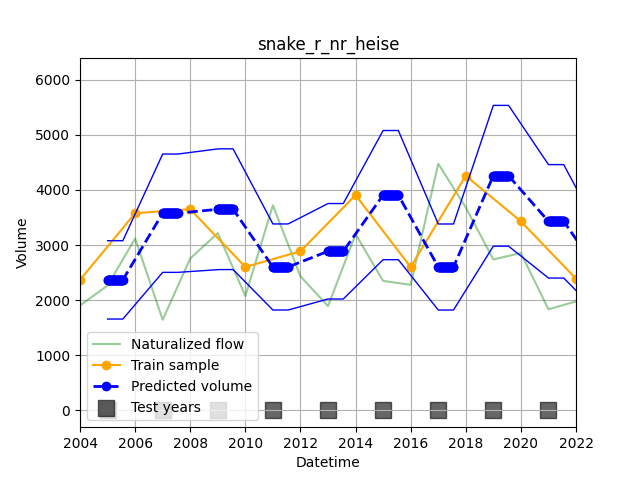
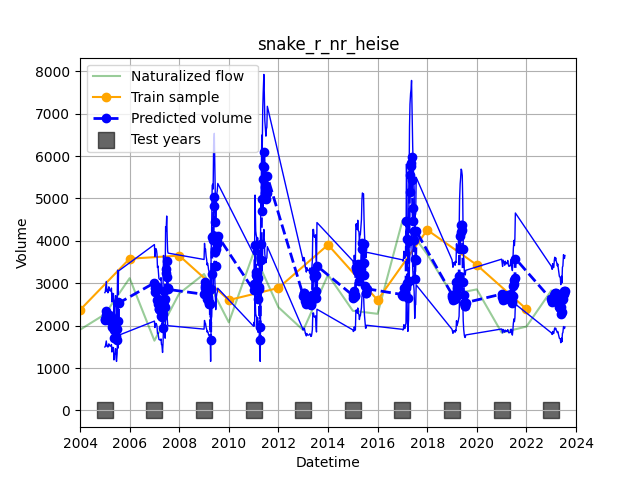
finish streamflow model

diff --git a/wasu/development/models/train_model.py b/wasu/development/models/train_model.py
@@ -4,8 +4,10 @@ from typing import Union
 
 import pandas as pd
 from loguru import logger
+from sklearn.linear_model import LinearRegression
 
 from wasu.development.main import collect_usgs_streamflow_time_series_for_site
+from wasu.development.models.date_utils import generate_datetime_into_julian, get_julian_date_from_datetime
 from wasu.development.output import Output
 
 
@@ -43,7 +45,7 @@ class TrainModel:
 
         submit = df[['index']].merge(predicted, on='index')
         submit = submit.drop(columns=['index'])
-        submit['issue_date'] = pd.to_datetime(predicted['issue_date']).dt.strftime('%Y-%m-%d')
+        submit['issue_date'] = pd.to_datetime(submit['issue_date']).dt.strftime('%Y-%m-%d')
         submit.to_csv(path, index=False)
 
 
@@ -110,15 +112,15 @@ class AdvancedRepeatingTrainModel(TrainModel):
             site_df = self.train_df[self.train_df['site_id'] == site]
             site_df = site_df.sort_values(by='year')
 
-            submit = self._generate_forecasts_for_site(historical_values=site_df,
-                                                       submission_site=submission_site)
+            submit = self.generate_forecasts_for_site(historical_values=site_df,
+                                                      submission_site=submission_site)
 
             df_to_send.append(submit)
 
         df_to_send = pd.concat(df_to_send)
         return df_to_send
 
-    def _generate_forecasts_for_site(self, historical_values: pd.DataFrame, submission_site: pd.DataFrame):
+    def generate_forecasts_for_site(self, historical_values: pd.DataFrame, submission_site: pd.DataFrame):
         """ Generate forecasts for desired site """
         submit = []
         for row_id, row in submission_site.iterrows():
@@ -144,9 +146,13 @@ class StreamFlowRegression(TrainModel):
 
     def __init__(self, train_df: pd.DataFrame):
         super().__init__(train_df)
+        self.backup_model = AdvancedRepeatingTrainModel(train_df)
 
         self.lower_ratio = 0.3
         self.above_ratio = 0.3
+        # One month
+        self.aggregation_days = 45
+        self.features_columns = ['mean_value', 'sum_value', 'min_value', 'max_value']
 
     def predict(self, submission_format: pd.DataFrame, **kwargs) -> pd.DataFrame:
         self.train_df = self.train_df.dropna()
@@ -158,9 +164,15 @@ class StreamFlowRegression(TrainModel):
         # For every site
         for site in list(submission_format['site_id'].unique()):
             streamflow_df = collect_usgs_streamflow_time_series_for_site(path_to_streamflow, site)
-            if streamflow_df is None:
-                # TODO Generate alternative forecast in that case
-                continue
+            submission_site = submission_format[submission_format['site_id'] == site]
+            site_df = self.train_df[self.train_df['site_id'] == site]
+            site_df = site_df.sort_values(by='year')
+
+            if streamflow_df is None or len(streamflow_df) < 1:
+                logger.warning(f'Can not obtain streamflow data for site {site}. Apply Advanced repeating')
+                submit = self.backup_model.generate_forecasts_for_site(historical_values=site_df,
+                                                                       submission_site=submission_site)
+                df_to_send.append(submit)
 
             metadata_site = metadata[metadata['site_id'] == site]
             season_start_month = metadata_site['season_start_month'].values[0]
@@ -169,54 +181,120 @@ class StreamFlowRegression(TrainModel):
             logger.info(f'Generating forecast for site {site}. Start season month: {season_start_month}. '
                         f'End season month: {season_end_month}')
 
-            submission_site = submission_format[submission_format['site_id'] == site]
-            site_df = self.train_df[self.train_df['site_id'] == site]
-            site_df = site_df.sort_values(by='year')
-
-            submit = self._generate_forecasts_for_site(historical_values=site_df,
-                                                       streamflow_df=streamflow_df,
-                                                       submission_site=submission_site)
-
-            df_to_send.append(submit)
+            try:
+                submit = self._generate_forecasts_for_site(historical_values=site_df,
+                                                           streamflow_df=streamflow_df,
+                                                           submission_site=submission_site)
+                df_to_send.append(submit)
+            except Exception as ex:
+                logger.warning(f'Can not generate forecast for site {site} due to {ex}. Apply Advanced repeating')
+                submit = self.backup_model.generate_forecasts_for_site(historical_values=site_df,
+                                                                       submission_site=submission_site)
+                df_to_send.append(submit)
 
         df_to_send = pd.concat(df_to_send)
         return df_to_send
 
     def _generate_forecasts_for_site(self, historical_values: pd.DataFrame,
                                      streamflow_df: pd.DataFrame, submission_site: pd.DataFrame):
-        streamflow_df['julian_datetime'] = pd.DatetimeIndex(streamflow_df['datetime']).to_julian_date()
-        streamflow_df['julian_datetime'] = streamflow_df['julian_datetime'] .round(3)
+        streamflow_df = generate_datetime_into_julian(dataframe=streamflow_df, datetime_column='datetime',
+                                                      julian_column='julian_datetime', round_julian=3)
 
         submit = []
         for row_id, row in submission_site.iterrows():
-            # For each datetime label
-            issue_date = row['issue_date']
+            ############################################
+            # GENERATE FORECAST FOR CURRENT ISSUE DATE #
+            ############################################
 
-            # Get also issue date in julian
-            issue_date_df = pd.DataFrame({'issue_date': [issue_date]})
-            issue_date_df['julian_datetime'] = pd.DatetimeIndex(issue_date_df['issue_date']).to_julian_date()
-            issue_date_df['julian_datetime'] = issue_date_df['julian_datetime'].round(3)
-            issue_date_julian = issue_date_df['julian_datetime'].values[0]
+            # Get information about datetime
+            issue_date = row['issue_date']
+            issue_date_julian = get_julian_date_from_datetime(current_date=issue_date, round_julian=3)
+            issue_date_agg_start_julian = get_julian_date_from_datetime(current_date=issue_date,
+                                                                        offset_days=self.aggregation_days)
 
             # Volume from the previous year
             known_historical_values = historical_values[historical_values['year'] < issue_date]
             known_streamflow_values = streamflow_df[streamflow_df['julian_datetime'] < issue_date_julian]
 
-            # Aggregate the data
+            # Add information about year in the dataframe
             known_streamflow_values['year'] = known_streamflow_values['datetime'].dt.year
-            dataframe_for_model_fitting = []
-            for historical_year in list(known_historical_values['year'].dt.year):
-                if historical_year not in list(known_streamflow_values['year'].unique()):
-                    continue
+            known_historical_values['year_number'] = known_historical_values['year'].dt.year
 
-                same_datetime_in_past = []
-                print(issue_date.dayofyear, issue_date.day, issue_date)
+            # Fit model
+            model, min_target, max_target = self._fit_model_based_on_historical_data(known_historical_values=known_historical_values,
+                                                                                     known_streamflow_values=known_streamflow_values,
+                                                                                     issue_date=issue_date)
 
-            row['volume_10'] = 0
-            row['volume_50'] = 0
-            row['volume_90'] = 0
+            # Generate forecast
+            agg_streamflow = known_streamflow_values[known_streamflow_values['julian_datetime'] >= issue_date_agg_start_julian]
+            agg_streamflow = agg_streamflow[agg_streamflow['julian_datetime'] < issue_date_julian]
+            dataset = self.__aggregate_features(agg_streamflow)
+
+            predicted = model.predict(dataset[self.features_columns])[0]
+
+            # Clip to borders
+            if predicted > max_target:
+                predicted = max_target
+            if predicted < min_target:
+                predicted = min_target
+
+            row['volume_10'] = predicted - (predicted * self.lower_ratio)
+            row['volume_50'] = predicted
+            row['volume_90'] = predicted + (predicted * self.above_ratio)
 
             submit.append(pd.DataFrame(row).T)
 
         submit = pd.concat(submit)
         return submit
+
+    def _fit_model_based_on_historical_data(self, known_historical_values: pd.DataFrame,
+                                            known_streamflow_values: pd.DataFrame, issue_date):
+
+        dataframe_for_model_fitting = []
+        for historical_year in list(known_historical_values['year'].dt.year):
+            # For each year in the past collect data for model fitting
+            if historical_year not in list(known_streamflow_values['year'].unique()):
+                continue
+            # One year in advance for aggregation
+            if historical_year - 1 not in list(known_streamflow_values['year'].unique()):
+                continue
+
+            # Find that day in the past (and min and max borders for data aggregation)
+            years_offset = issue_date.year - historical_year
+            aggregation_end_julian = get_julian_date_from_datetime(current_date=issue_date, offset_years=years_offset)
+            aggregation_start_julian = get_julian_date_from_datetime(current_date=issue_date, offset_years=years_offset,
+                                                                     offset_days=self.aggregation_days)
+
+            agg_streamflow = known_streamflow_values[known_streamflow_values['julian_datetime'] >= aggregation_start_julian]
+            agg_streamflow = agg_streamflow[agg_streamflow['julian_datetime'] < aggregation_end_julian]
+
+            dataset = self.__aggregate_features(agg_streamflow)
+
+            # Add target (for prediction)
+            historical_data_for_year = known_historical_values[known_historical_values['year_number'] == historical_year]
+            target = historical_data_for_year['volume'].values[0]
+
+            dataset['historical_year'] = historical_year
+            dataset['target'] = target
+            dataframe_for_model_fitting.append(dataset)
+
+        dataframe_for_model_fitting = pd.concat(dataframe_for_model_fitting)
+        dataframe_for_model_fitting = dataframe_for_model_fitting.dropna()
+
+        reg = LinearRegression()
+        reg.fit(dataframe_for_model_fitting[self.features_columns], dataframe_for_model_fitting['target'])
+        min_target, max_target = min(dataframe_for_model_fitting['target']), max(dataframe_for_model_fitting['target'])
+        return reg, min_target, max_target
+
+    @staticmethod
+    def __aggregate_features(agg_streamflow: pd.DataFrame):
+        # Collect features for ML model
+        mean_value = agg_streamflow['00060_Mean'].mean()
+        sum_value = agg_streamflow['00060_Mean'].sum()
+        min_value = agg_streamflow['00060_Mean'].min()
+        max_value = agg_streamflow['00060_Mean'].max()
+
+        dataset = pd.DataFrame({'mean_value': [mean_value], 'sum_value': [sum_value], 'min_value': [min_value],
+                                'max_value': [max_value]})
+
+        return dataset

diff --git a/wasu/development/models/date_utils.py b/wasu/development/models/date_utils.py
@@ -1,0 +1,35 @@
+from abc import abstractmethod
+from datetime import timedelta
+from pathlib import Path
+from typing import Union, Optional
+
+import pandas as pd
+
+
+def generate_datetime_into_julian(dataframe: pd.DataFrame, datetime_column: str, julian_column: str,
+                                  round_julian: Optional[int] = None):
+    """ Transform current datetime column into julian dates """
+    dataframe[julian_column] = pd.DatetimeIndex(dataframe[datetime_column]).to_julian_date()
+    if round_julian is not None:
+        dataframe[julian_column] = dataframe[julian_column].round(round_julian)
+
+    return dataframe
+
+
+def get_julian_date_from_datetime(current_date, round_julian: Optional[int] = None,
+                                  offset_years: Optional[int] = None, offset_days: Optional[int] = None):
+    """ Convert datetime object into julian """
+    date_df = pd.DataFrame({'date': [current_date]})
+
+    # Apply offset (if required)
+    if offset_years is not None and offset_days is not None:
+        date_df = date_df - pd.DateOffset(years=offset_years, days=offset_days)
+    elif offset_years is not None:
+        date_df = date_df - pd.DateOffset(years=offset_years)
+    elif offset_days is not None:
+        date_df = date_df - pd.DateOffset(days=offset_days)
+
+    date_df = generate_datetime_into_julian(date_df, 'date', 'julian_datetime', round_julian)
+    date_julian = date_df['julian_datetime'].values[0]
+
+    return date_julian

diff --git a/examples/predict_based_on_usgs_streamflow.py b/examples/predict_based_on_usgs_streamflow.py
@@ -4,7 +4,7 @@ import warnings
 
 import pandas as pd
 
-from wasu.development.models.train_model import AdvancedRepeatingTrainModel, StreamFlowRegression
+from wasu.development.models.train_model import StreamFlowRegression
 from wasu.development.vis.visualization import TimeSeriesPlot
 
 warnings.filterwarnings('ignore')
@@ -22,7 +22,7 @@ def generate_forecast_based_on_streamflow():
     predicted = model.predict(submission_format, metadata=metadata, path_to_streamflow=path_to_streamflow)
 
     # Save into file
-    model.save_predictions_as_submit(predicted, path='./results/advanced_repeating_07_11_2023.csv')
+    model.save_predictions_as_submit(predicted, path='./results/usgs_streamflow_27_11_2023.csv')
 
     TimeSeriesPlot().predicted_time_series(predicted)
 
